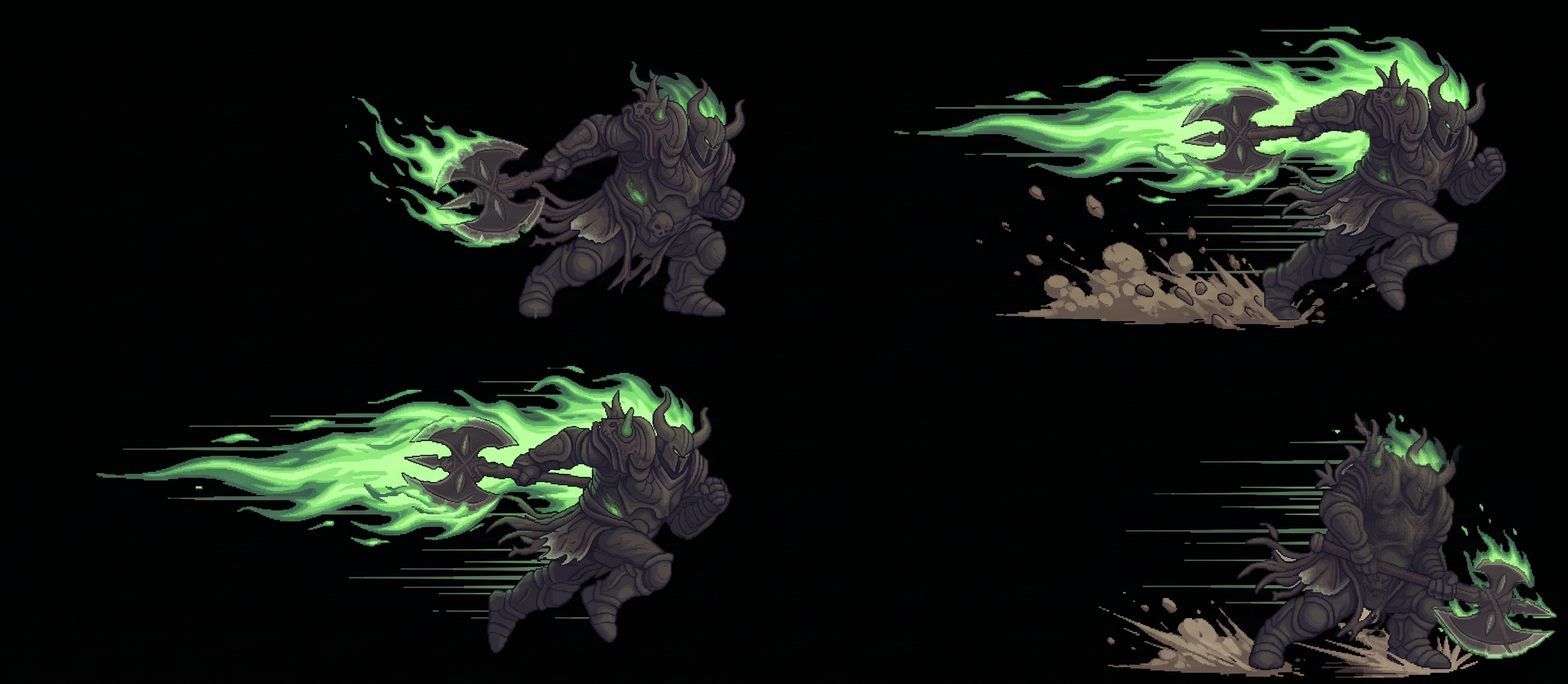
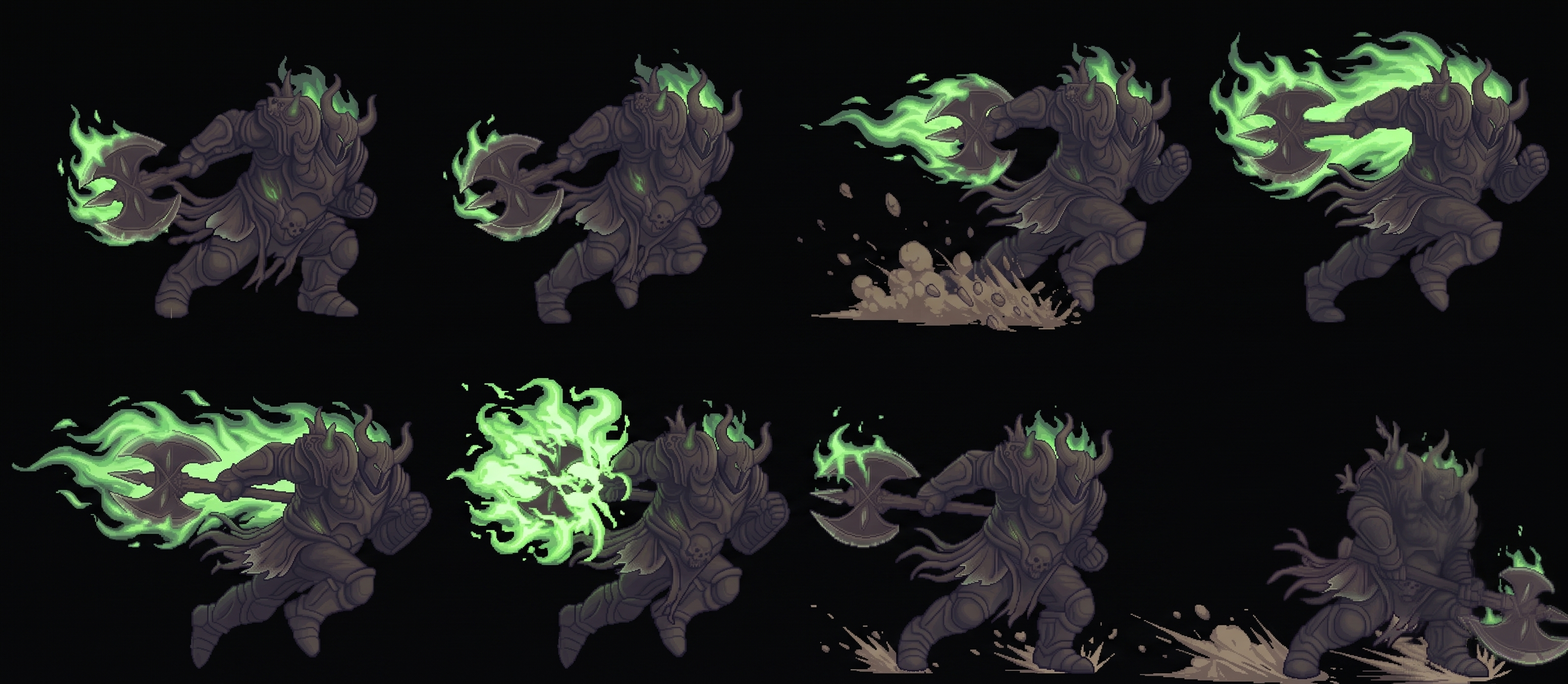
feat: update Boss 2 charge animation with new spritesheet and remove dash mechanism

diff --git a/GreenGurdian/core/src/main/java/com/greenguardian/game/assets/AssetLoader.java b/GreenGurdian/core/src/main/java/com/greenguardian/game/assets/AssetLoader.java
@@ -36,7 +36,6 @@ public class AssetLoader {
     public Texture boss2AttackSheet;
     public Texture boss2SmashSheet;
     public Texture boss2ChargeSheet;
-    public Texture boss2DashSheet;
     public Texture boss2ShieldSheet;
     public Texture boss2DeathSheet;
 
@@ -79,7 +78,6 @@ public class AssetLoader {
         boss2AttackSheet = new Texture(Gdx.files.internal("characters/bosses/boss2/boss2Attack.png"));
         boss2SmashSheet = new Texture(Gdx.files.internal("characters/bosses/boss2/boss2Smash.png"));
         boss2ChargeSheet = new Texture(Gdx.files.internal("characters/bosses/boss2/boss2Charge.png"));
-        boss2DashSheet = new Texture(Gdx.files.internal("characters/bosses/boss2/boss2Dash.png"));
         boss2ShieldSheet = new Texture(Gdx.files.internal("characters/bosses/boss2/boss2Shield.png"));
         boss2DeathSheet = new Texture(Gdx.files.internal("characters/bosses/boss2/boss2Death.png"));
 
@@ -137,7 +135,6 @@ public class AssetLoader {
         if (boss2AttackSheet != null) boss2AttackSheet.dispose();
         if (boss2SmashSheet != null) boss2SmashSheet.dispose();
         if (boss2ChargeSheet != null) boss2ChargeSheet.dispose();
-        if (boss2DashSheet != null) boss2DashSheet.dispose();
         if (boss2ShieldSheet != null) boss2ShieldSheet.dispose();
         if (boss2DeathSheet != null) boss2DeathSheet.dispose();
 

diff --git a/GreenGurdian/core/src/main/java/com/greenguardian/game/entities/CentaurBoss.java b/GreenGurdian/core/src/main/java/com/greenguardian/game/entities/CentaurBoss.java
@@ -9,8 +9,8 @@ import com.badlogic.gdx.math.Rectangle;
 import com.greenguardian.game.assets.AssetLoader;
 
 public class CentaurBoss extends Boss {
-    private Texture smashAttackSheet, chargeSheet, dashSheet, shieldSheet;
-    private Animation<TextureRegion> smashAttackAnim, chargeAnim, dashAnim, shieldAnim;
+    private Texture smashAttackSheet, chargeSheet, shieldSheet;
+    private Animation<TextureRegion> smashAttackAnim, chargeAnim, shieldAnim;
 
     private boolean isSmashing = false;
     private boolean isCharging = false;
@@ -34,7 +34,6 @@ public class CentaurBoss extends Boss {
         attackSheet = assets.boss2AttackSheet;
         smashAttackSheet = assets.boss2SmashSheet;
         chargeSheet = assets.boss2ChargeSheet;
-        dashSheet = assets.boss2DashSheet;
         shieldSheet = assets.boss2ShieldSheet;
         deathSheet = assets.boss2DeathSheet;
 
@@ -43,7 +42,6 @@ public class CentaurBoss extends Boss {
         attackAnim = createGridAnimation(attackSheet, 4, 2, 0.10f);
         smashAttackAnim = createGridAnimation(smashAttackSheet, 4, 2, 0.12f);
         chargeAnim = createGridAnimation(chargeSheet, 4, 2, 0.10f);
-        dashAnim = createGridAnimation(dashSheet, 4, 2, 0.10f);
         shieldAnim = createGridAnimation(shieldSheet, 4, 2, 0.12f);
         deathAnim = createGridAnimation(deathSheet, 4, 2, 0.15f);
 
